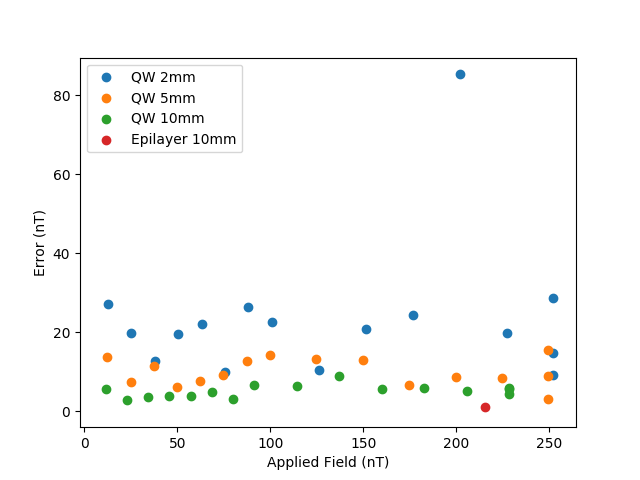
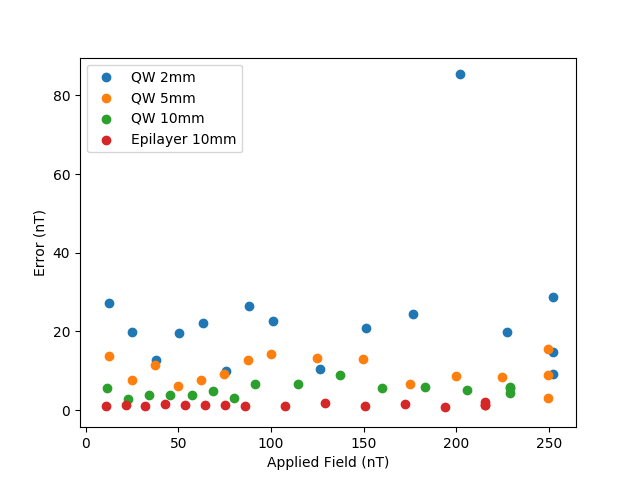
Fix composite not showing epilayer

diff --git a/model.py b/model.py
@@ -407,38 +407,38 @@ def analyze_all():
     qw2.plot_mag_vs_freq(chosen_i=1e-4, label1='QW 2mm', label2=None)
     qw5.plot_mag_vs_freq(chosen_i=1e-4, label1='QW 5mm', label2=None)
     qw10.plot_mag_vs_freq(chosen_i=1e-3, label1='QW 10mm', label2=None)
-    epilayer.plot_mag_vs_freq(chosen_i=1e-2, label1='Epilayer 10mm', label2=None)
+    epilayer.plot_mag_vs_freq(chosen_i=1e-3, label1='Epilayer 10mm', label2=None)
     plt.savefig(os.path.join(os.getcwd(), 'figures', 'Composite', 'mag_vs_freq.png'))
     plt.close()
     qw2.plot_phase_vs_freq(chosen_i=1e-4, label1='QW 2mm', label2=None)
     qw5.plot_phase_vs_freq(chosen_i=1e-4, label1='QW 5mm', label2=None)
     qw10.plot_phase_vs_freq(chosen_i=1e-3, label1='QW 10mm', label2=None)
-    epilayer.plot_phase_vs_freq(chosen_i=1e-2, label1='Epilayer 10mm', label2=None)
+    epilayer.plot_phase_vs_freq(chosen_i=1e-3, label1='Epilayer 10mm', label2=None)
     plt.savefig(os.path.join(os.getcwd(), 'figures', 'Composite', 'phase_vs_freq.png'))
     plt.close()
     qw2.plot_mag_vs_mag(chosen_i=1e-4, label1='QW 2mm', label2=None)
     qw5.plot_mag_vs_mag(chosen_i=1e-4, label1='QW 5mm', label2=None)
     qw10.plot_mag_vs_mag(chosen_i=1e-3, label1='QW 10mm', label2=None)
-    epilayer.plot_mag_vs_mag(chosen_i=1e-2, label1='Epilayer 10mm', label2=None)
+    epilayer.plot_mag_vs_mag(chosen_i=1e-3, label1='Epilayer 10mm', label2=None)
     plt.savefig(os.path.join(os.getcwd(), 'figures', 'Composite', 'mag_vs_mag_1kHz.png'))
     plt.close()
     qw2.plot_phase_vs_mag(chosen_i=1e-4, label1='QW 2mm', label2=None)
     qw5.plot_phase_vs_mag(chosen_i=1e-4, label1='QW 5mm', label2=None)
     qw10.plot_phase_vs_mag(chosen_i=1e-3, label1='QW 10mm', label2=None)
-    epilayer.plot_phase_vs_mag(chosen_i=1e-2, label1='Epilayer 10mm', label2=None)
+    epilayer.plot_phase_vs_mag(chosen_i=1e-3, label1='Epilayer 10mm', label2=None)
     plt.savefig(os.path.join(os.getcwd(), 'figures', 'Composite', 'phase_vs_mag_1kHz.png'))
     plt.close()
     qw2.plot_error_vs_freq(chosen_i=1e-4, label='QW 2mm')
     qw5.plot_error_vs_freq(chosen_i=1e-4, label='QW 5mm')
     qw10.plot_error_vs_freq(chosen_i=1e-3, label='QW 10mm')
-    epilayer.plot_error_vs_freq(chosen_i=1e-2, label='Epilayer 10mm')
+    epilayer.plot_error_vs_freq(chosen_i=1e-3, label='Epilayer 10mm')
     plt.legend()
     plt.savefig(os.path.join(os.getcwd(), 'figures', 'Composite', 'error_vs_freq.png'))
     plt.close()
     qw2.plot_error_vs_mag(chosen_i=1e-4, label='QW 2mm')
     qw5.plot_error_vs_mag(chosen_i=1e-4, label='QW 5mm')
     qw10.plot_error_vs_mag(chosen_i=1e-3, label='QW 10mm')
-    epilayer.plot_error_vs_mag(chosen_i=1e-2, label='Epilayer 10mm')
+    epilayer.plot_error_vs_mag(chosen_i=1e-3, label='Epilayer 10mm')
     plt.legend()
     plt.savefig(os.path.join(os.getcwd(), 'figures', 'Composite', 'error_vs_mag_1kHz.png'))
     plt.close()
